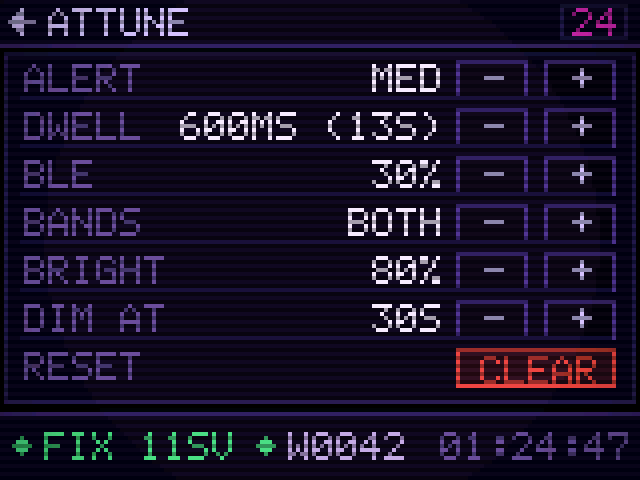
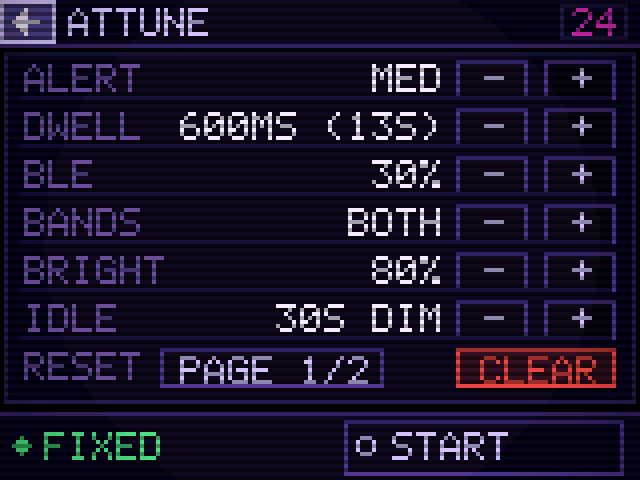
docs: re-render the ATTUNE image (IDLE row, pager) and note how it is made
Claude-Session: https://claude.ai/code/session_01GMARvMNbMFzUpCAB9LwPQU

diff --git a/docs/design-notes.md b/docs/design-notes.md
@@ -341,9 +341,9 @@ Settings **are persisted**: `device/prefs.cpp` keeps each one under its own NVS 
 and saves a few seconds after the last change, so a reboot comes back as it was left.
 An absent key (a fresh board, or one flashed over older firmware) reads as the default.
 
-`docs/attune.png` is a hand-made capture with no script or make target behind it, and
-is now **stale** (it predates the IDLE row and the pager). Re-render it with
-`sim/umbravox docs/attune.png --screen attune --scale 4` when convenient.
+`docs/attune.png` shows page 1 and is rendered by the simulator (no separate script):
+`sim/umbravox docs/attune.png --screen attune --scale 4`. Re-render it whenever the
+settings screen changes. Page 2 (AUTO LOG, SCROLLS, ORIENT) is not pictured here.
 
 ### FILES
 
